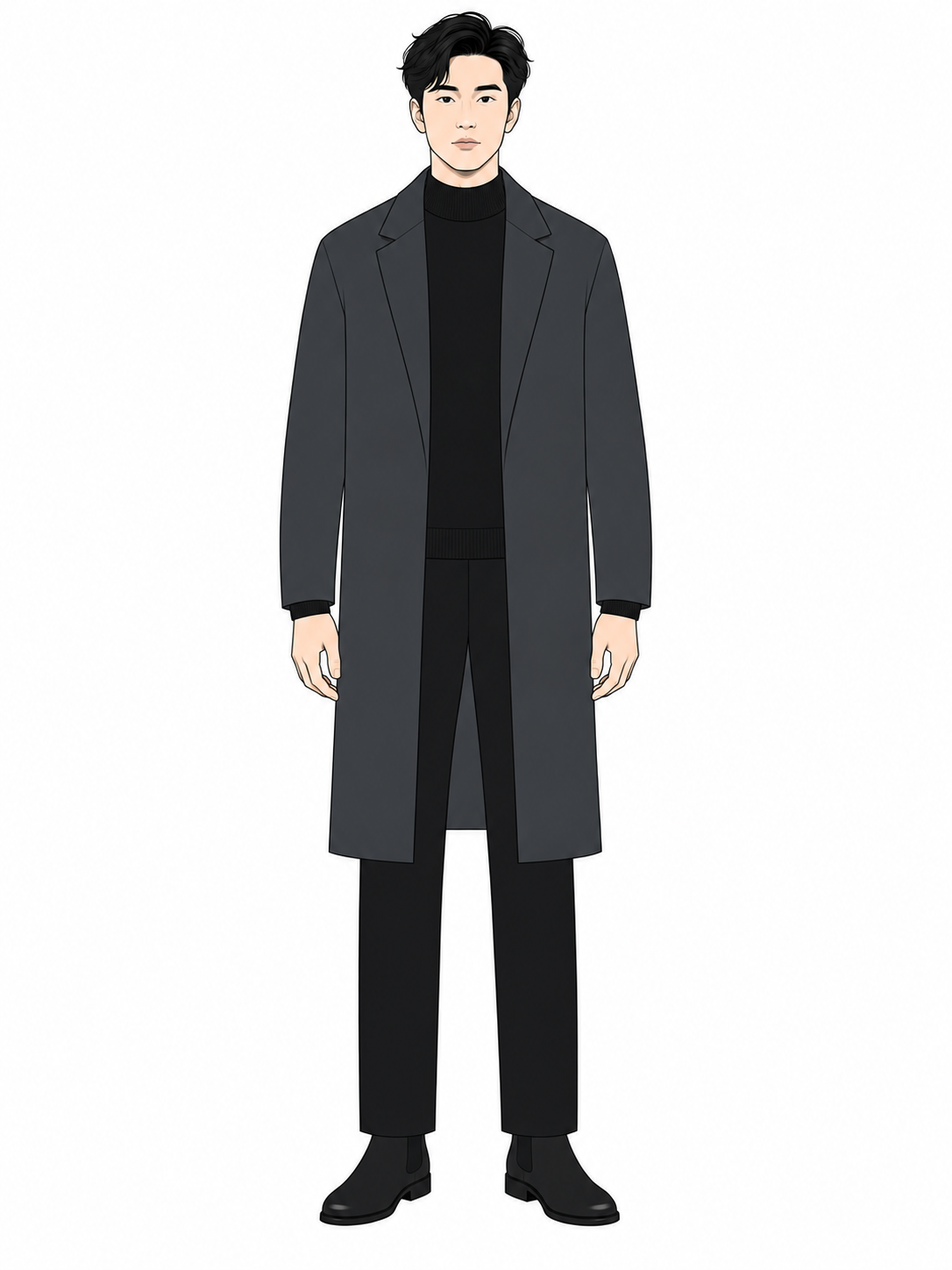
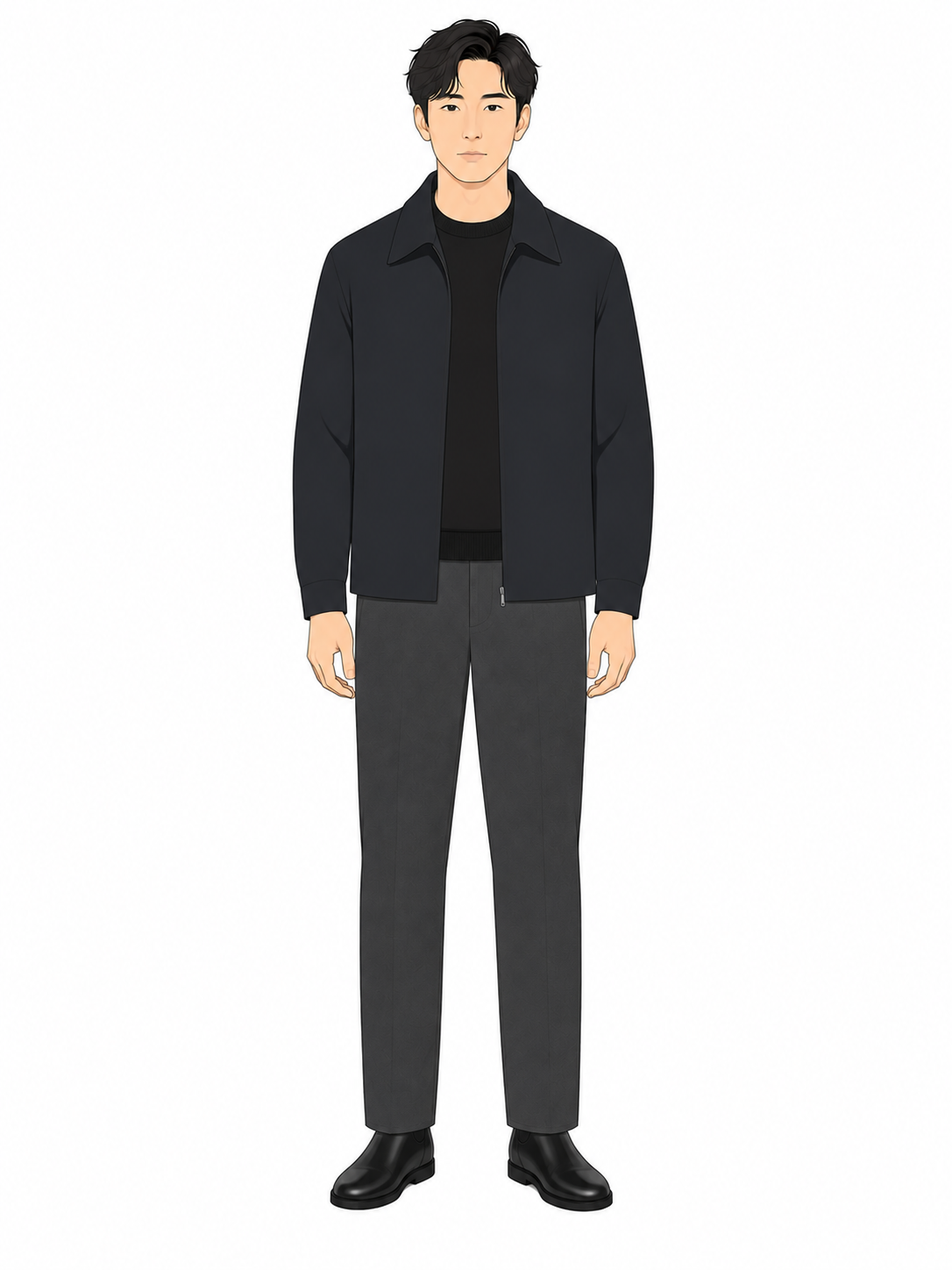
Regenerate five Style illustrations with corrected skin tone and colours
Replaces school-day, parent-evening, weekend, evening-out and hair
with new renders matching the current data: navy in place of
charcoal, camel for Parent evening's coat, light-to-medium skin
instead of the unspecified default, and realistic leg length instead
of fashion-croquis elongation.

Colour, carefully and Blazer and sneakers are not among the new
renders — none of the generated images showed the emerald knit or the
tie either look depends on, so both go back to the drawn placeholder
rather than ship a wrong match.

diff --git a/hub/style/index.html b/hub/style/index.html
@@ -312,7 +312,7 @@
 const S = {"philipp": {"direction": {"register": "Modern preppy, elevated — mature, not collegiate", "thesis": "The wardrobe he was already buying toward (Ralph Lauren, Suitsupply, Charles Tyrwhitt) stops being an exception and becomes the actual plan: tailored coats and knitwear over a collared shirt, chinos with a clean line, camel and khaki back in alongside the cool core. Preppy's usual signals — bright polos, popped collars, varsity branding — are exactly the collegiate register this avoids; the 2026 version of this look is described everywhere as sophisticated and mature rather than campus, and that is the half being kept.", "builtFrom": "Three facts about him, not a look: colouring that is Dark Winter and high-contrast, a 25 cm waist-to-hip drop, and a face that reads a decade younger than the passport. Those decide the trouser cut and how far the styling may mature regardless of register; the palette itself is cool by test, with camel and khaki confirmed back in on his own report on 2026-09-06.", "onTheOriginalFraming": "Written first in Korean-actor vocabulary, then generalised — the palette, cut and hair depend on his own measurements and colouring, not the label. The register itself changed again on 2026-09-06, quiet minimalism to modern preppy; the old references matched the old register, not this one.", "ageRead": "Reads early-to-mid 30s in photographs, not 43: full hairline, even skin tone, no deep static lines. The clothes are currently the oldest thing in the picture. That widens the range rather than narrowing it — the limiter is context (school, parent evenings, Germany), not the birth year, and over-mature styling would hand back years the face has not lost.", "notThis": [{"register": "Costume", "why": "Sheer fabric, embellishment, stage pieces — the idol register."}, {"register": "Collegiate preppy", "why": "Bright polos, popped collars, varsity, baseball caps — the campus version this register avoids."}], "referencesNote": "Byeon Woo Seok is sourced for the garment specifics; Beckham and Reynolds for silhouette and attitude only. Colour is already settled from his own skin and the metal test, not from a reference photo.", "references": [{"name": "Byeon Woo Seok", "why": "Actor, not idol; Prada ambassador; documented in cable-knit-over-collared-shirt layering — the core preppy combination, executed adult rather than campus. Age and build read close to his own."}, {"name": "David Beckham", "why": "Named directly in 2026 coverage of the trend: 'blending traditional tailoring with casual, sporty elements'. Mature, not collegiate, and the sportswear-into-tailoring move matches a man who trains regularly."}, {"name": "Ryan Reynolds", "why": "Named in the same coverage: 'clean, polished ensembles with a touch of whimsy'. The whimsy is the one thing to leave behind — the register wanted here is quieter than his press-tour persona — but the clean, tailored-casual base is exactly it."}], "readOfCurrentPhotos": "Four photographs, four sets of functional clothing: sport tee, polo, sport tee, printed sweatshirt. Not a taste problem — a control problem. Nothing in the set is a chosen silhouette. What already works: the gum-sole Sambas, and navy, which appears in three of four and flatters in all three. What works against him: the printed sweatshirt (busy, boxy, adds volume exactly where the training is removing it) and visible athletic branding outside the gym."}, "hair": {"priority": "The single biggest lever — roughly 60% of the effect is decided before any garment is chosen. Hair either rounds the face or lengthens it, and nothing worn below the collar can undo that.", "caption": "Taper cut — textured length on top, tapered sides (not shaved), matte not glossy. Near-black stays.", "imageStyle": {"prefix": "Close-up portrait illustration in a graphic novel style — flat matte ink like a European or American adult graphic novel, not anime or webtoon. Bold clean black ink outlines of even weight, no cross-hatching, no soft cel-shading, no gradients, no glossy highlights on the hair or skin. Head and shoulders only, three-quarter angle. Plain white background, no scenery, no props. No text, no labels, no captions, no logos.", "figure": "Early-30s East Asian man, light-to-medium skin tone — not pale, not fair-skinned. Mature and quiet, calm expression, no smile. Near-black hair in a taper cut: textured length and natural volume on top, falling softly to one side with lift at the crown, sides tapered short and blended into the top — never shaved or clipped to skin — matte and textured throughout, never glossy or wet-look. Wearing a plain navy crew-neck knit, no visible branding.", "suffix": "Portrait orientation, roughly 3:4, head and shoulders filling most of the frame with a small margin."}, "current": "Already close to the target most days, per his own photos — taper sides, natural volume on top, a soft side part or a looser textured sweep depending on the day. The gap only shows right after a cut that goes too short and too flat: no taper, no crown lift, which rounds the face and takes height away until it grows back out.", "cut": "Taper, not two-block/undercut. A two-block's sharp contrast between shaved sides and long top needs a trim every 2–3 weeks to hold its line — Asian hair regrows fast enough that skin-short sides read 'grown out' within two weeks. A taper has no hard line to lose, so it holds its shape 6–8 weeks between cuts and is closer to what he already wears day to day. Ask the barber for: taper on the sides, not a skin-short or clipper-guard-zero undercut, with 4–6 cm of textured length on top.", "shape": "Side sweep with lift at the crown — the classic preppy part, and it does more for his face shape than the alternative. Not a middle part: that reads closer to K-drama/idol styling than to this register, and without a real perm it tends to sit flat over a normal hairline rather than lengthening it the way a side sweep does.", "color": "Leave it. Near-black is a Dark Winter's own colour and the high contrast against the skin is the asset. If it is ever touched, a cool dark brown — ash or espresso, never caramel or warm brown.", "product": "Matte clay, not gel — a pea-sized amount worked through towel-dried hair with fingers, lifting from underneath at the crown. Under a minute; the taper does the work, the product just holds it rather than restyling it daily.", "why": "Vertical lift lengthens the face and gives the jaw its line back; a taper keeps that lift without a two-block's upkeep cost, which is more than wanted for a routine redone every morning and a cut redone every few weeks. The colour advice here used to say the opposite — soften the black to a warm brown — and the undertone test overturned it. That recommendation was warm-season reasoning applied to cool skin, and it was the one thing in this file genuinely riding on the answer. The cut is unaffected: it comes from face shape and upkeep, not colouring."}, "palette": {"type": "Dark Winter — deep, high-contrast, cool", "confidence": "Settled for metal, not for every fabric. Depth and contrast were never in doubt. The gold-versus-silver test (2026-09-05) is the strongest-supported claim in here for metal specifically — reflective gold at the jaw is a definite no, silver reads clean — and that rule is not in question. What was overreached was extending it to every warm-toned fabric: on 2026-09-06 he reported his own camel coat and khaki both suit him, which a metal test cannot actually rule out. A polished gold ring returns raw, saturated warmth straight onto the skin; a matte wool coat is muted and sits further from the face, and depth/muting can outweigh hue in a way a mirror shows and a metal swatch cannot. So: metal is a closed question, cool only. Fabric neutrals are open beyond the deep core — camel and khaki are back in, on his word, and nothing else warm has been tested. Charcoal is a different kind of open question: it's cool, so the undertone test never argued against it, but he owns exactly one charcoal item and isn't sure it works. Navy carries the 'default cool neutral' job instead, until charcoal gets the same kind of real-world confirmation camel and khaki got — see `unconfirmed`.", "established": "Near-black hair, dark brown eyes, light-to-medium skin, high hair-to-skin contrast. Deep colours hold across every lighting seen so far — black and navy both sit at the face without draining it.", "resolved": "Cool for metal: silver at the face reads clean, gold pulls yellow into the skin. Dark Winter depth and contrast stand regardless. Fabric is less absolute than metal — see `warmNeutrals` below for the two colours his own mirror has already settled.", "rule": "Deep tones throughout, and let the contrast stand. Black is a real neutral here, mid tones are not. Navy and true white are the cool default; camel and khaki are allowed too, on his own report — see `warmNeutrals`. Charcoal stays unconfirmed — see `unconfirmed`.", "metal": "Silver, steel, white gold, gunmetal — not gold. Watch, belt buckle, glasses frames, any ring. Metal only; doesn't extend to camel or khaki fabric.", "core": [{"name": "Black", "hex": "#16181C"}, {"name": "Navy", "hex": "#1F2A44"}, {"name": "True white", "hex": "#FFFFFF"}, {"name": "Forest", "hex": "#2E4535"}, {"name": "Burgundy", "hex": "#6B2233"}], "accent": {"note": "Where colour is allowed in an otherwise dark wardrobe.", "colors": [{"name": "Emerald", "hex": "#0F5C4A"}, {"name": "Sapphire", "hex": "#1B3F7A"}, {"name": "Deep berry", "hex": "#7A1140"}, {"name": "Icy blue", "hex": "#BFD4E8"}]}, "warmNeutrals": {"note": "Confirmed on his own word, 2026-09-06 — not a metal-test result.", "colors": [{"name": "Camel", "hex": "#A8825A", "why": "His own coat."}, {"name": "Khaki", "hex": "#C2B49A", "why": "Confirmed same day."}]}, "unconfirmed": {"note": "Cool-toned, so never ruled out on undertone grounds — just never actually worn enough to say it works. Navy took over as the default cool neutral instead of waiting on it.", "colors": [{"name": "Charcoal", "hex": "#3A3F47", "why": "One charcoal suit, and he's not sure it suits him — 2026-09-08. The same unconfirmed status khaki had before 2026-09-06; it may well come back in, on the same terms — his own report, not a swatch test."}]}, "ruledOut": {"note": "Untested for fabric, not wrong on anyone — just wrong next to cool skin.", "colors": [{"name": "Cream", "hex": "#EFE7D8", "why": "True white does this cool."}, {"name": "Stone", "hex": "#C7BFAE", "why": "Untested, unlike khaki."}, {"name": "Chocolate", "hex": "#4A3728", "why": "Warm brown at the face."}, {"name": "Rust", "hex": "#9C4A2A", "why": "Autumn's signature."}, {"name": "Deep olive", "hex": "#4A503A", "why": "Forest does this cool."}]}, "avoid": [{"name": "Fuchsia", "hex": "#E4409B", "why": "Too light and too bright against this depth — this was never an undertone question"}, {"name": "Apple green", "hex": "#8DC63F", "why": "Same reason: brightness. Cool it further and it is still wrong."}, {"name": "Lemon yellow", "hex": "#F2E85C", "why": "Light and bright — disappears next to near-black hair"}, {"name": "Ice pink", "hex": "#F5D3DE", "why": "Pale and washed — the opposite of a Dark palette"}, {"name": "Mid grey", "hex": "#9AA0A8", "why": "Not wrong, just inert — mid tones flatten a high-contrast face. Go darker."}]}, "looks": {"note": "Added 2026-09-05 because the page could describe a wardrobe but not show one. Every colour here comes from `palette.core` or `palette.accent` — these are assemblies, not new decisions, and if the palette changes these have to change with it. Five is deliberate: enough to cover the week he actually has, few enough that each one is a real outfit rather than a combination generator.", "imageStyle": {"adaptedFrom": "Originally the Teaching Hub house style verbatim — 'black and white graphic novel illustration, bold clean ink lines, no grey gradients'. Moved further on 2026-09-06: 'graphic novel' as a phrase kept pulling image generators toward glossy webtoon/manhwa romance-comic rendering regardless of the negative instructions stacked against it — confirmed when a generated School day image came back with soft gradient shading and an invented chest pocket despite both being explicitly excluded. The prompt now anchors on 'fashion technical flat / croquis', a real, well-represented illustration genre that is inherently flat and unornamented, rather than fighting a genre (graphic novel) whose dominant training association is the opposite of what this page needs.", "deviation": "Colour is still the one deliberate addition on top of the reference genre: a fashion croquis is normally colourless, but on a wardrobe page the colour IS the content — an emerald knit under a navy overshirt is the whole point — so garments are filled flat in the palette hexes instead.", "correction": {"date": "2026-09-06", "problem": "The first two renders (school-day, parent-evening) came back reading as modern preppy / dark academia — glossy K-webtoon shading and doe-eyed rendering rather than the graphic-novel ink asked for, a flapped topstitched chest pocket, a button-down collar, and trousers with a visible break at the shoe. None of that was written into the prompt; the generator defaulted to the dominant house style for 'handsome young Asian man' illustrations, which is exactly that look. The palette and garments were correct — the rendering and a few unstated details were not.", "fix": "prefix and figure below now say explicitly what they used to leave to chance: matte flat ink, no glossy or anime/webtoon shading, no doe-eyed romance-comic rendering, matte textured hair rather than a glossy side part, no decorative top-stitching or flapped pockets, no crease-break at the shoe. The parent-evening shirt keeps its collar — a plain spread collar is exactly right under an open coat — but loses the button-down oxford collar (the version with buttons at the points), which is the specific detail that read Ivy. This is not a new direction — it is the one already written in `direction` and `hair`, enforced in the prompt instead of assumed.", "existingImages": "school-day.png and parent-evening.png predate this fix and were not regenerated — that is a real cost, not a rounding error, and worth redoing only if the drift bothers him enough to spend the effort again."}, "prefix": "A fashion technical flat sketch — a designer's croquis, the plain reference drawing used in clothing design to show a garment on a figure with no artistic rendering. Flat matte black ink outlines of even weight on plain solid colour fills, exactly like a Uniqlo or Muji style guide diagram, not a character illustration, not a graphic novel panel, not anime or webtoon art. No cross-hatching, no soft cel-shading, no grey gradients, no glossy highlights anywhere, on hair or skin or fabric. No fabric texture, no wrinkles, no rendering of any kind — every garment is a single flat shape. Every garment is plain and unornamented: no pockets, no flaps, no stitching detail, no seams drawn in, no visible branding. Plain white background, no scenery, no props, no shadow on the ground. No text, no labels, no captions, no logos.", "figure": "The same man in all five images so they read as one series: early-30s East Asian man, slim athletic build, light-to-medium skin tone — not pale, not fair-skinned. Mature and quiet rather than boyish or doe-eyed, calm neutral expression with no smile. Near-black hair with length and volume on top and tapered sides, matte and textured with natural separation — not glossy, not a slicked or glassy side part. Standing straight and facing the viewer, arms relaxed at his sides, full body visible from head to shoes, in realistic body proportions — not the elongated 9-head fashion-croquis convention of extra-long legs; keep the leg length true to life relative to the torso. Trousers fall in one continuous straight line with no crease and no break at the shoe.", "suffix": "Portrait orientation, roughly 3:4. The whole figure must fit inside the frame with clear margin above the head and below the shoes.", "howToUse": "Concatenate prefix + figure + the look's own `imagePrompt` + suffix, generate, and drop the file into hub/style/img/ named after the occasion slug — school-day.png, parent-evening.png, weekend.png, evening-out.png, colour-carefully.png. The build picks it up on the next run and replaces the drawn placeholder; .png, .jpg and .webp are all accepted.", "background": "A transparent background is better than white if the generator can do it, because the page has a dark theme as well as a light one. If it cannot, white is fine — the build puts the image on its own white plate so it looks deliberate in both themes rather than like a bug."}, "items": [{"occasion": "School day", "when": "The default, and the one worth getting right — it is most of the week", "note": "Confirmed 2026-09-06: a real collar for work, not a crew neck — the knit is what he wears off-duty with his wife, not what belongs at school. On cold days the merino crew goes back in, but layered over the shirt, under the overshirt — the collar still shows, so the rule holds either way. Tonal from collar to shoe, one shoulder seam on the outside. Nothing here needs ironing on a Tuesday morning.", "reference": {"label": "Real chelsea-boot outfits, this register", "url": "https://lookastic.com/men/black-chelsea-boots/looks"}, "imagePrompt": "He wears a plain open navy overshirt (#1F2A44) with a defined shoulder seam and no chest pocket, over a white cotton shirt (#FFFFFF) with a plain point collar visible at the neck, buttoned without a tie. Straight-leg navy trousers (#1F2A44) that fall clear of the hip in one continuous line with no crease and no break at the ankle, and black leather chelsea boots (#16181C). The overshirt hangs open and straight, forming one unbroken vertical line down each side.", "layers": [{"part": "Outerwear", "item": "Navy overshirt", "hex": "#1F2A44"}, {"part": "Top", "item": "White collared shirt", "hex": "#FFFFFF"}, {"part": "Bottom", "item": "Navy straight trousers", "hex": "#1F2A44"}, {"part": "Shoes", "item": "Black chelsea", "hex": "#16181C"}, {"part": "Cold add-on", "item": "Navy merino crew, between shirt and overshirt", "hex": "#1F2A44"}]}, {"occasion": "Parent evening", "when": "When the room has other adults in it and the clothes are read once, quickly", "note": "Confirmed 2026-09-06: no tie here didn't sit right with him — a parent evening reads as a room to be dressed for, not just a coat to be seen in. The tie is what changes; the coat still does most of the work. Coat corrected to camel 2026-09-08 — the one he already owns and confirmed suits him. Charcoal was never actually tested; camel is.", "reference": {"label": "Ryan Reynolds, this exact combination", "url": "https://lookastic.com/men/looks/navy-overcoat-white-dress-shirt-black-dress-pants/18343"}, "imagePrompt": "He wears an open single-breasted camel wool coat (#A8825A) that reaches just below the knee, over a plain pure white shirt (#FFFFFF) with a spread collar — a plain collar, not a button-down oxford collar — and a tie in a palette colour (navy or burgundy, plain or a narrow stripe, no bright pattern), straight-leg navy blue trousers (#1F2A44), and black leather derby shoes (#16181C). The coat is single-breasted with a narrow lapel and hangs open in one long straight vertical line.", "layers": [{"part": "Outerwear", "item": "Camel knee-length coat", "hex": "#A8825A"}, {"part": "Top", "item": "True white shirt", "hex": "#FFFFFF"}, {"part": "Neckwear", "item": "Tie — navy or burgundy, plain or narrow stripe", "hex": "#1F2A44"}, {"part": "Bottom", "item": "Navy straight trousers", "hex": "#1F2A44"}, {"part": "Shoes", "item": "Black derby", "hex": "#16181C"}]}, {"occasion": "Weekend", "when": "Errands, coffee, the park", "note": "The Sambas stay. They are the one thing in the current photographs that already works, and shoes sit far enough from the face that the palette rule is not doing much down there.", "reference": {"label": "Real Samba outfit ideas", "url": "https://meninspire.com/samba-outfit-men/"}, "imagePrompt": "He wears an open dark forest green overshirt (#2E4535) over a plain pure white t-shirt (#FFFFFF), straight-leg dark indigo denim jeans (#23314A) in a deep even wash with no fading and no distressing, and low-profile white leather sneakers with a gum sole (#E9E7E2) and three plain stripes. Relaxed but not loose; the jeans are straight through the leg, never skinny and never baggy.", "layers": [{"part": "Outerwear", "item": "Forest overshirt", "hex": "#2E4535"}, {"part": "Top", "item": "True white tee", "hex": "#FFFFFF"}, {"part": "Bottom", "item": "Dark straight denim, no fading", "hex": "#23314A"}, {"part": "Shoes", "item": "Samba", "hex": "#E9E7E2"}]}, {"occasion": "Evening out", "when": "Dinner, a bar, anywhere with low light", "note": "Black on black on black, broken only by the coat being a shade lighter. This is the look the high contrast in his colouring was made for.", "reference": {"label": "Real mock-neck outfits, this register", "url": "https://lookastic.com/men/black-mock-neck-sweater/looks"}, "imagePrompt": "He wears an open single-breasted navy wool coat (#1F2A44) reaching just below the knee, over a black fine-gauge mock neck knit (#16181C) with a visibly ribbed stand collar and ribbed cuffs, straight-leg black trousers (#16181C), and black leather chelsea boots (#16181C). Almost entirely black from the neck down, with the coat one clear shade lighter so the silhouette still separates from the layers beneath it.", "layers": [{"part": "Outerwear", "item": "Navy coat", "hex": "#1F2A44"}, {"part": "Top", "item": "Black mock neck", "hex": "#16181C"}, {"part": "Bottom", "item": "Black straight trousers", "hex": "#16181C"}, {"part": "Shoes", "item": "Black chelsea", "hex": "#16181C"}]}, {"occasion": "Colour, carefully", "when": "When the whole week has been navy and black", "note": "One accent, at the top, with everything under it quiet. Emerald is a Dark Winter colour rather than a bright one, so it reads as depth and not as a statement.", "reference": {"label": "Real dark-green sweater outfits", "url": "https://lookastic.com/men/dark-green-sweater/looks"}, "imagePrompt": "He wears an open navy blue overshirt (#1F2A44) over a deep emerald green fine-gauge merino crew neck knit (#0F5C4A) with a visibly ribbed neckline and ribbed cuffs, straight-leg navy trousers (#1F2A44), and black leather chelsea boots (#16181C). The emerald is deep and saturated rather than bright or minty, and it is the only colour in the image that draws the eye.", "layers": [{"part": "Outerwear", "item": "Navy overshirt", "hex": "#1F2A44"}, {"part": "Top", "item": "Emerald merino crew", "hex": "#0F5C4A"}, {"part": "Bottom", "item": "Navy straight trousers", "hex": "#1F2A44"}, {"part": "Shoes", "item": "Black chelsea", "hex": "#16181C"}]}, {"occasion": "Blazer and sneakers", "when": "Smart, but not fully formal — a combination he already wears", "note": "Confirmed 2026-09-06 as something he actually wears, and it turns out to be close to the purest expression of the register: 2026 coverage of modern preppy names this exact move by name — a tailored jacket with a sneaker in place of an Oxford shoe. The tie and jacket say effort; the sneaker says he chose it rather than the dress code choosing it for him.", "reference": {"label": "Real blazer + white-sneaker outfits", "url": "https://lookastic.com/men/white-sneakers/how-to-wear-with/khaki-chinos"}, "imagePrompt": "He wears a navy sport coat (#1F2A44) with a defined shoulder, open, over a white dress shirt (#FFFFFF) with a plain collar and a tie in a palette colour — navy or burgundy, plain or a narrow stripe, no bright pattern. Straight-leg khaki chino trousers (#C2B49A). Clean white leather sneakers in a low-top terrace-shoe style, not a bulky performance trainer. The jacket and tie read dressed; the sneaker is the deliberate, chosen contrast.", "layers": [{"part": "Outerwear", "item": "Navy sport coat", "hex": "#1F2A44"}, {"part": "Top", "item": "White dress shirt", "hex": "#FFFFFF"}, {"part": "Neckwear", "item": "Tie — navy or burgundy, plain or narrow stripe", "hex": "#1F2A44"}, {"part": "Bottom", "item": "Khaki chino", "hex": "#C2B49A"}, {"part": "Shoes", "item": "White Adidas Barreda", "hex": "#E9E7E2"}]}]}, "silhouette": {"rules": [{"rule": "Straight leg, mid-to-high rise", "why": "Hip 105 cm over waist 80 cm is a 25 cm drop. A slim cut pulls at the seat and advertises exactly the ratio the training is working on; straight falls clear of the hip and lengthens the leg."}, {"rule": "Defined shoulder line", "why": "The taper is being built in the gym. Outerwear with a real shoulder seam — overshirt, coat, unstructured blazer — anticipates it instead of waiting for it."}, {"rule": "Tonal column, top to bottom", "why": "One depth of colour head to foot reads as height. Splitting light-over-dark cuts the body in half at the waist, which is the one place not to draw a line."}, {"rule": "Outerwear to the knee, single-breasted", "why": "A long unbroken vertical is the most reliable lengthening device there is. Double-breasted adds width across the chest and works against it."}, {"rule": "No visible athletic branding outside the gym — heritage fashion branding is a different thing", "why": "Sport logos say 'on the way to train'; the clothes should not be doing that when the destination is a classroom. That was never a rule against branding as such — a Ralph Lauren pony is a heritage signifier central to this exact register, not a sport logo, and modern preppy is built partly around wearing it visibly. Adidas terrace sneakers (Samba, Barreda) sit in between and were already allowed on their own terms: the branding is subtle by design, not because branding got a pass."}, {"rule": "Relaxed, never skinny — and never baggy", "why": "Easy through the leg, clean at the line. Tight reads dated and fights the hip; oversized reads borrowed and loses the shoulder the whole silhouette is built on."}]}, "buyNext": [{"item": "Overshirt / shirt jacket", "colors": "Navy or forest — navy replaces charcoal, unconfirmed for him; forest replaces the deep olive this used to say", "why": "Replaces the printed sweatshirt outright. The slight shoulder structure does work a sweatshirt physically cannot, and it goes over anything already in the wardrobe."}, {"item": "White collared shirt (two or three)", "colors": "White", "why": "Confirmed 2026-09-06 as the actual work base — a crew neck doesn't belong at school for him, whatever it does off-duty. Charles Tyrwhitt is already on the brand list at the right collar size."}], "seasonalWardrobe": {"note": "Rewritten 2026-09-05 into the target register, then corrected the same day when the undertone test came back cool — cream, stone, camel, chocolate, tortoise and dark brown all removed. Camel and khaki came back on 2026-09-06 on his own report; cream, stone, chocolate, tortoise and dark brown are still out, untested. The four-season structure, the straight-leg correction and the tonal-column rule are unchanged throughout.", "styleNote": "Natural fabrics — wool, cotton, leather. The rule that carries every season: one depth of colour throughout, a defined shoulder on whatever is outermost. Neutrals default cool — navy and true white — with camel and khaki confirmed as the two exceptions. Charcoal stays unconfirmed.", "seasons": [{"season": "Spring", "heading": "Light layers, one tone", "tops": "Fine merino or cotton knit in navy or true white, worn under rather than alone", "outerwear": "Overshirt or unlined coach jacket in forest or navy", "bottoms": "Straight chinos in khaki or navy", "shoes": "Sambas, or a black derby when the day needs it"}, {"season": "Summer", "heading": "Cut, not exposure", "tops": "Boxy-but-clean linen or linen-blend shirt in true white or sapphire, short sleeve with a proper shoulder seam", "bottoms": "Straight trousers in navy, or wide-leg shorts to just above the knee — not sport shorts", "accessories": "Sunglasses in black or dark grey with a grey lens. Tortoise is a warm frame and sits at the face, which is the one place the undertone actually matters.", "shoes": "Clean white leather sneaker or a black loafer"}, {"season": "Autumn", "heading": "Deep tones, before the coats come out", "tops": "Merino crew or mock neck in forest, burgundy or deep berry", "outerwear": "Overshirt layered under a camel or navy coat", "bottoms": "Straight trousers in navy, or dark denim with no fading", "shoes": "Black chelsea or derby"}, {"season": "Winter", "heading": "The strongest season for this palette", "tops": "Heavier knit in navy or emerald, mock or turtleneck", "outerwear": "Knee-length single-breasted wool coat in camel or navy", "bottoms": "Straight wool-blend trousers in navy or black", "shoes": "Lined black boot"}]}, "chinoPlan": {"goal": "End goal: capsule wardrobe largely in Ralph Lauren. This used to be framed as a collector's habit tolerated despite the styling, back when the register was quiet minimalism. Under modern preppy it is the opposite — Ralph Lauren is close to the definitive brand for this register, so wanting it and the styling actually agreeing is the correction, not a coincidence.", "midGoal": "Realised differently than planned: Dockers got skipped entirely, and Suitsupply is already the everyday tier, in khaki and navy. Ralph Lauren stays the premium end goal.", "fit": "Straight leg, mid-to-high rise. Ask for the straight or relaxed cut by fit, not by model name.", "revision": {"date": "2026-09-08", "change": "The phased 'cheap first, upgrade later' plan didn't happen — he skipped Dockers and bought Suitsupply straight away, in khaki and navy. Charcoal is dropped from every remaining phase: he owns exactly one charcoal item, isn't sure it suits him, and navy is what he actually reaches for. The 2026-09-05 fit and colour corrections (straight leg, khaki back in) still stand.", "why": "Two separate things converged. The Suitsupply jump is just what happened — the plan is worth updating to match rather than pretending the Dockers step is still 'next'. The charcoal drop is the same rule this file already used for camel and khaki, applied in the other direction: colour that isn't backed by real worn experience doesn't get to sit in the plan as a default, whichever way the theory points."}, "roadmap": [{"phase": "Owned", "brand": "Suitsupply", "model": "Wider chino block in store — Brescia is their slim one", "colors": "Khaki, Navy", "purpose": "Everyday and smart casual, both already in rotation", "status": "Done"}, {"phase": "Next — when ready for the premium tier", "brand": "Ralph Lauren", "model": "Stretch Chino, straight or relaxed", "colors": "Navy, possibly Forest — not charcoal, unconfirmed for him", "priceNew": "€120–150 (outlet/Vinted often €80–100)", "whereNew": "Ralph Lauren DE, Zalando, outlets (Ingolstadt, Roermond)", "secondHandSearch": "\"Polo Ralph Lauren chino straight 32/32\"", "purpose": "Prestige, parent evenings, events", "status": "Planned"}]}, "brands": [{"name": "Charles Tyrwhitt", "category": "Shirts", "note": "Stands — collar 38, extra slim fit already established"}, {"name": "Suitsupply", "category": "Suits, chinos", "note": "Stands for tailoring; take the wider chino block, not Brescia"}, {"name": "Uniqlo", "category": "Knitwear", "note": "Now the most important name on this list — the merino line is the tonal base layer"}, {"name": "Eterna", "category": "Silk ties"}, {"name": "Shoepassion", "category": "Men's shoes", "note": "Size 8 — the black derby or chelsea comes from here. Was dark brown until the undertone test."}, {"name": "Adidas", "category": "Sneakers, socks", "note": "Sambas stay. White Barreda added — same terrace-shoe family, dressier T-toe suede/leather build, Adidas's answer to the Nike Killshot. White is the core-safe colour; the branded sport tees stay in the gym."}, {"name": "Levi's", "category": "Jeans — Denim 511 Slim", "note": "511 is a slim cut; the straight-leg correction applies here too when it is replaced"}, {"name": "Banana Republic", "category": "Chino — 31/32 Mason Athletic Fit", "note": "Superseded by the fit revision"}, {"name": "Burberry", "category": null}, {"name": "Villeroy und Boch", "category": "Porcelain (not clothing)"}], "size": {"collar": "38 cm", "shoulder": "46 cm", "chest": "96 cm", "belly": "87 cm", "waist": "80 cm", "hip": "105 cm", "armLength": "83 cm", "sleeveLength": "61 cm", "shirtLength": "67 cm", "notes": ["Extra Slim Fit — Tyrwhitt 38 business shirt, casual size S", "31/32 Regular Fit — Boss Orange chino", "Shoes: 26 cm foot = EU 42.6–43.3 at Adidas, EU 43 at Nike", "Shoepassion size 8", "Waist 80 to hip 105 is a 25 cm drop — the single measurement that decides the trouser cut"]}}, "eunice": null};
 /* Filled by the build from whatever is in hub/style/img/. Empty until the
    first illustration is generated, which is the normal state, not an error. */
-const IMG = {"colour-carefully": "img/colour-carefully.png?v=ae8d964f", "evening-out": "img/evening-out.png?v=fa3e3c23", "hair": "img/hair.png?v=99506f05", "parent-evening": "img/parent-evening.png?v=3672c952", "school-day": "img/school-day.png?v=ee3148e9", "weekend": "img/weekend.png?v=9bb1c8f5"};
+const IMG = {"evening-out": "img/evening-out.png?v=37b940c9", "hair": "img/hair.png?v=bc570665", "parent-evening": "img/parent-evening.png?v=106c8679", "school-day": "img/school-day.png?v=a634dd2e", "weekend": "img/weekend.png?v=43c2ad95"};
 
 function esc(s){
   return String(s == null ? "" : s)

diff --git a/hub/sw.js b/hub/sw.js
@@ -1,7 +1,7 @@
 /* Pairwell service worker.
    Update rule: bump CACHE whenever files have changed. */
 
-const CACHE = "hub-v85";
+const CACHE = "hub-v86";
 
 const SHELL = [
   "./",
@@ -23,12 +23,11 @@ const SHELL = [
      but "first view" means online, and an outfit you cannot see in a shop is
      the one place this page is used. Empty until the first one is generated. */
   // <style-img>
-  "./style/img/colour-carefully.png?v=ae8d964f",
-  "./style/img/evening-out.png?v=fa3e3c23",
-  "./style/img/hair.png?v=99506f05",
-  "./style/img/parent-evening.png?v=3672c952",
-  "./style/img/school-day.png?v=ee3148e9",
-  "./style/img/weekend.png?v=9bb1c8f5",
+  "./style/img/evening-out.png?v=37b940c9",
+  "./style/img/hair.png?v=bc570665",
+  "./style/img/parent-evening.png?v=106c8679",
+  "./style/img/school-day.png?v=a634dd2e",
+  "./style/img/weekend.png?v=43c2ad95",
   // </style-img>
 ];
 
